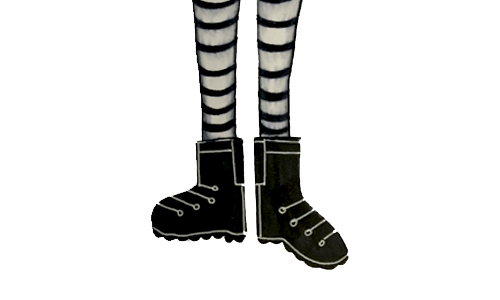
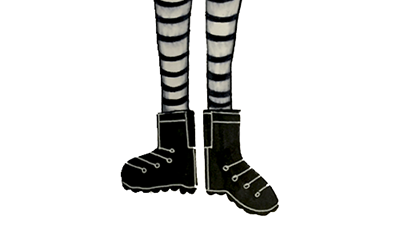
changed static file sizes and added arrow and target animation

diff --git a/public/controllers/WarriorCtrl.js b/public/controllers/WarriorCtrl.js
@@ -40,8 +40,8 @@ const data = (snapshot.val())
 	}
 
 	$(document).ready(function(){
-			var text = "<div class='headdresses'><img id='hdpink' src='/roles/headdress4.png'><img id='hdflow'src='/roles/headdress2.png'><img id='hdfeathers'src='/roles/headdress3.png'><img id='hdpurple'src='/roles/headdress1.png'></div>"
-			var text2 = "<div class='cloaks'><img id='cloak1' src='/roles/cloak1.png'><img id='cloak2' src='/roles/cloak2.png'><img id='cloak3' src='/roles/cloak3.png'></div>"
+			var text = "<div class='headdresses'><img id='hdpink' src='/roles/headdress4.png'><img id='hdflow'src='/roles/headdress2.png'><img id='hdfeathers'src='/roles/headdress3.png'><img id='hdblue'src='/roles/hd4.png'></div>"
+			var text2 = "<div class='cloaks'><img id='cloak1' src='/roles/cloakblue.png'><img id='cloak2' src='/roles/cloak2.png'><img id='cloak3' src='/roles/cloak3.png'><img id='cloak4' src='/roles/cloak4.png'></div>"
 			var text3 = "<div class='boots'><img id='boot1' src='/roles/boots1.png'><img id='boot2' src='/roles/boots2sm.png'><img id='boot3' src='/roles/boots3sm.png'></div>"
 				$('[data-toggle="popover"]').popover({
 					html : true,
@@ -66,6 +66,11 @@ const data = (snapshot.val())
 					console.log("clicked", newHeaddress)
 					updateDollHeaddress(newHeaddress)
 				})
+				$('body').on("click", "#hdblue", function(e){
+					var newHeaddress = `https://firebasestorage.googleapis.com/v0/b/warrior-app.appspot.com/o/headdress%2F${warrior.paperdoll}HD5.png?alt=media&token=740ebeaf-aa9a-4aee-828e-7510bee7dda8`
+					console.log("clicked", newHeaddress)
+					updateDollHeaddress(newHeaddress)
+				})
 				$('body').on("click", "#hdflow", function(e){
 					var newHeaddress = `https://firebasestorage.googleapis.com/v0/b/warrior-app.appspot.com/o/headdress%2F${warrior.paperdoll}HD3.png?alt=media&token=740ebeaf-aa9a-4aee-828e-7510bee7dda8`
 					console.log("clicked", e)
@@ -77,7 +82,7 @@ const data = (snapshot.val())
 					updateDollHeaddress(newHeaddress)
 				})
 				$('body').on("click", "#hdpurple", function(e){
-					var newHeaddress = `https://firebasestorage.googleapis.com/v0/b/warrior-app.appspot.com/o/headdress%2F${warrior.paperdoll}HD1.png?alt=media&token=740ebeaf-aa9a-4aee-828e-7510bee7dda8`
+					var newHeaddress = `https://firebasestorage.googleapis.com/v0/b/warrior-app.appspot.com/o/headdress%2F${warrior.paperdoll}HD1.png?alt=media&token=47c160e5-987e-4bfb-ab07-d73ebfa8164b`
 					console.log("clicked", e)
 					updateDollHeaddress(newHeaddress)
 				})
@@ -93,6 +98,11 @@ const data = (snapshot.val())
 				})
 				$('body').on("click", "#cloak3", function(e){
 					var newcloak = `https://firebasestorage.googleapis.com/v0/b/warrior-app.appspot.com/o/cloak%2FCL3.png?alt=media&token=f714e989-6b16-4c80-976e-5f02a8584a6f`
+					console.log("clicked", e)
+					updateDollCloak(newcloak)
+				})
+					$('body').on("click", "#cloak4", function(e){
+					var newcloak = `https://firebasestorage.googleapis.com/v0/b/warrior-app.appspot.com/o/cloak%2FCL4.png?alt=media&token=f714e989-6b16-4c80-976e-5f02a8584a6f`
 					console.log("clicked", e)
 					updateDollCloak(newcloak)
 				})

diff --git a/public/views/user-role.html b/public/views/user-role.html
@@ -1,41 +1,42 @@
 
+<div class="wrapper1">
 <div class="container-fluid">
-	<div class="row col-xs-12">
+	<div class="row col-xs-12 fill">
   <form ng-click="warrior.change()" class="form-horizontal" validate>
 	 <div class="row">
-		<div class="form-group col-xs-3">
+		<div class="form-group col-xs-3 fillit">
 			<div class="template1 row">
      		  <button type="button" class="btn btn-default imgButton headdressbtn" data-container="body" data-toggle="popover" data-placement="right" data-content=""><img src='/roles/headdress1.png'></button>
      		  <!-- <input type="radio" name="options" ng-model="warrior.image" value="headdress"> -->
     	</div>
       </div>
-    	<div class="col-xs-9 warrior">
+    	<div class="col-xs-9 warrior fillit">
     		<div class="row pink" >
-        <img ng-src="{{warrior.headdress}}">
+        <div><img ng-src="{{warrior.headdress}}"></div>
     		</div>
     	</div>
 	 </div>
 	   <div class="row">
-			<div class="form-group col-xs-3">
+			<div class="form-group col-xs-3 fillit">
 			 <div class="template1 row">
      		  <button type="button" class="btn btn-default imgButton cloakbtn" data-container="body" data-toggle="popover2" data-placement="right" data-content=""><img src='/roles/cloak1.png'></button>
       </div>
     </div>
-    	<div class="col-xs-9 warrior">
-    		<div class="row blue">
-        <img ng-src="{{warrior.cloak}}">
+    	<div class="col-xs-9 warrior fillit">
+    		<div class="row blue imageCloak">
+        <div><img ng-src="{{warrior.cloak}}"></div>
     		</div>
     	</div>
 	   </div>
 	   <div class="row">
-			<div class="form-group col-xs-3">
+			<div class="form-group col-xs-3 fillit">
 			<div class="template1 row">
      		 	<button type="button" class="btn btn-default imgButton bootsbtn" data-container="body" data-toggle="popover3" data-placement="right" data-content=""><img src='/roles/boots1.png'></button>
       </div>
      </div>
-    	<div class="col-xs-9 warrior">
+    	<div class="col-xs-9 warrior fillit">
     		<div class="row red">
-          <img ng-src="{{warrior.boots}}">
+          <div><img ng-src="{{warrior.boots}}"></div>
     		</div>
 
          <!--  <button type="button" class="btn btn-default" ng-click="warrior.getQuote()"> Be A Warrior</button>
@@ -43,6 +44,7 @@
       </div>
     </div>
   </form>
+  </div>
   </div>
 </div>
 

diff --git a/public/style.css b/public/style.css
@@ -1,37 +1,54 @@
-.container-fluid {
-	width: 100%;
-	margin:15px;
-	background-size: cover;
+.wrapper1{
+
+	margin: 7%;
+
+}
+
+.container-fluid{
+	width: auto;
+	margin:0;
+	height:auto;
+
 }
 
 
-#loginView {
-/*	margin:30px 100px;*/
 
-	background-image: url("roles/warriorback1.png");
+
+#loginView {
+	background-image: url(roles/warrior-background.jpg);
 	background-repeat: no-repeat;
 	background-size: cover;
-
-	max-width:100%;
 	height:800px;
+	margin: auto;
 
 
 }
 .headdresses {
 	text-align: center;
 }
-.container-fluid {
-	margin:10px 100px;
-	/*background-image: url('roles/warriorback.png');*/
+.cloaks {
+	text-align: center;
 }
-
+.boots {
+	text-align: center;
+}
+/*.container-fluid {
+	margin:10px 100px;
+*/
+}
+.imgButton {
+	margin: auto;
+}
+.imageCloak{
+	size: 75%;
+}
 
 
 .pink {
 
     position: relative;
-    left: -10px;
-    top: 30px;
+    left: -5px;
+    top: 19px;
     z-index: -1;
 	/*	margin-left: 300px;*/
 		text-align: center;
@@ -55,7 +72,7 @@
 
     position: relative;
     left: 0px;
-    top: -40px;
+    top: -25px;
     z-index: 0;
     text-align: center;
 }
@@ -112,10 +129,38 @@ h1 {
 
 
 }
+#animations {
+	position: fixed;
+	bottom: 20%;
+	left:0%;
+	width:100%;
 
-/*.imgButton {
-	padding: none;
 
-}*/
+}
+#arrowContainer {
+	width: 80%;
+	height: 100px;
+	background-image: url("roles/arrows.png");
+	animation: play 1.50s steps(3) infinite;
+}
+@keyframes play {
+   from { background-position: 0px; }
+     to { background-position: 1500px; }
+}
+.swingimage{
+		margin-left:80%;
+		margin-top:17%;
+		webkit-transform-origin: 50% 0;
+    transform-origin: 50% 0;
+    -webkit-animation: swinging 1.5s ease-in-out forwards infinite;
+    animation: swinging 1.5s ease-in-out forwards infinite;
+}
 
+
+
+@keyframes swinging{
+    0%{transform: rotate(10deg);}
+    50%{transform: rotate(-5deg)}
+    100%{transform: rotate(10deg);}
+}
 

diff --git a/public/views/loginView.html b/public/views/loginView.html
@@ -7,5 +7,12 @@
         <button type="button" class="btn btn-primary btn-lg loginBtn" ng-click="main.login()">Login</button>
         <button type="button" class="btn btn-primary btn-lg registerBtn" ng-click="main.register()">Register</button>
      </div>
+     <div id="animations">
+     <div id="arrowContainer">
+     </div>
+     </div>
+		<div>
+			<img class="swingimage" src="roles/target.png">
+		</div>
  	</div>
  </div>
